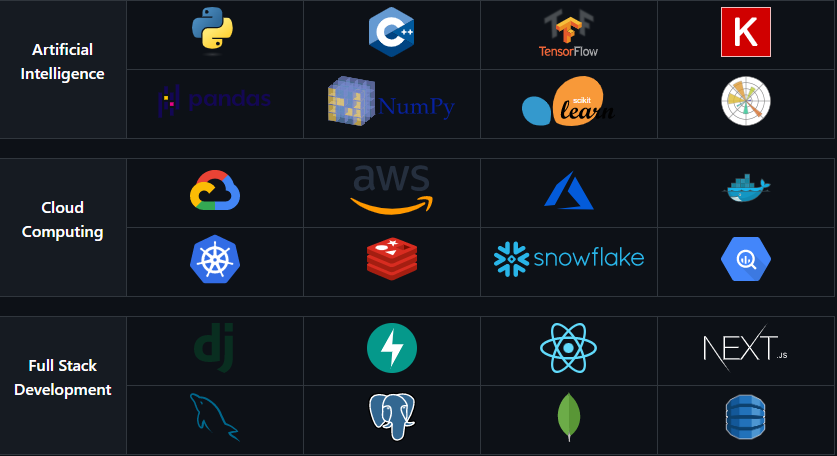
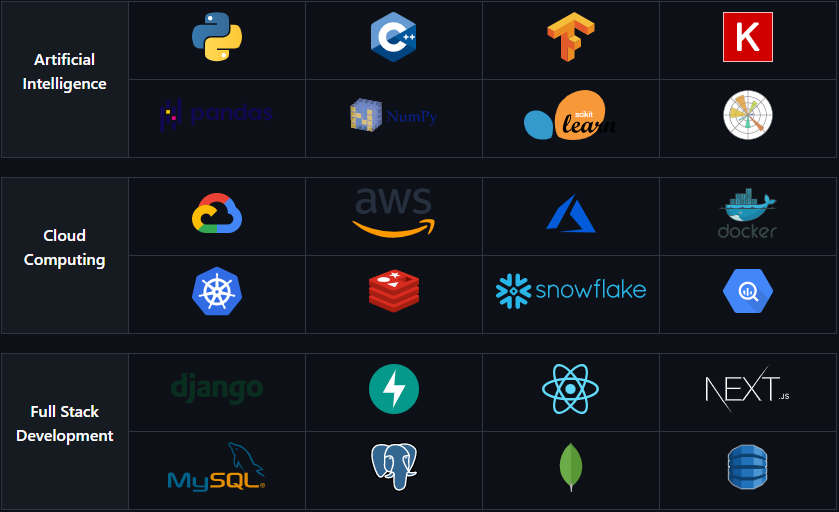
Update SS

diff --git a/README.md b/README.md
@@ -22,36 +22,38 @@
 ## <br>
 
 <h3 align="left">Languages and Tools:</h3>
-<img alt="Skills" src="./assets/tech_table.png">
+<div align='center'>
+    <img alt="Skills" src="./assets/tech_table.png">
+</div>
 <!-- <table align="center">
     <tr>
         <th align='center' width='100px' rowspan="2">
             <p align='center'>Artificial Intelligence</p>
         </th>
-        <td align='center' width='150px'>
-            <img alt="Python" height="50px" src="https://upload.wikimedia.org/wikipedia/commons/c/c3/Python-logo-notext.svg" />
+        <td align='center' width='150px' height='65px'>
+            <img alt="Python" height="50px" src="https://vectorlogo.zone/logos/python/python-icon.svg" />
         </td>
-        <td align='center' width='150px'>
+        <td align='center' width='150px' height='65px'>
             <img alt="C++" height="50px" src="https://upload.wikimedia.org/wikipedia/commons/1/18/ISO_C%2B%2B_Logo.svg" />
         </td>
-        <td align='center' width='150px'>
-            <img alt="TensorFlow" height="50px" src="https://upload.wikimedia.org/wikipedia/commons/1/11/TensorFlowLogo.svg" />
+        <td align='center' width='150px' height='65px'>
+            <img alt="TensorFlow" height="50px" src="https://www.vectorlogo.zone/logos/tensorflow/tensorflow-icon.svg" />
         </td>
-        <td align='center' width='150px'>
+        <td align='center' width='150px' height='65px'>
             <img alt="Keras" height="50px" src="https://upload.wikimedia.org/wikipedia/commons/a/ae/Keras_logo.svg" />
         </td>
     </tr>
     <tr>
-        <td align='center' width='150px'>
+        <td align='center' width='150px' height='65px'>
             <img alt="Pandas" height="50px" src="https://upload.wikimedia.org/wikipedia/commons/e/ed/Pandas_logo.svg" />
         </td>
-        <td align='center' width='150px'>
-            <img alt="Numpy" height="50px" src="https://upload.wikimedia.org/wikipedia/commons/1/1a/NumPy_logo.svg" />
+        <td align='center' width='150px' height='65px'>
+            <img alt="Numpy" height="50px" src="https://www.vectorlogo.zone/logos/numpy/numpy-ar21.svg" />
         </td>
-        <td align='center' width='150px'>
+        <td align='center' width='150px' height='65px'>
             <img alt="Scikit-Learn" height="50px" src="https://upload.wikimedia.org/wikipedia/commons/0/05/Scikit_learn_logo_small.svg" />
         </td>
-        <td align='center' width='150px'>
+        <td align='center' width='150px' height='65px'>
             <img alt="Matplotlib" height="50px" src="https://upload.wikimedia.org/wikipedia/commons/8/84/Matplotlib_icon.svg" />
         </td>
     </tr>
@@ -60,30 +62,30 @@
         <th align='center' width='100px' rowspan='2'>
             <p align='center'>Cloud Computing</p>
         </th>
-        <td align='center' width='150px'>
+        <td align='center' width='150px' height='65px'>
             <img alt="GCP" height="50px" src="https://www.vectorlogo.zone/logos/google_cloud/google_cloud-icon.svg" />
         </td>
-        <td align='center' width='150px'>
+        <td align='center' width='150px' height='65px'>
             <img alt="AWS" height="50px" src="https://upload.wikimedia.org/wikipedia/commons/9/93/Amazon_Web_Services_Logo.svg" />
         </td>
-        <td align='center' width='150px'>
+        <td align='center' width='150px' height='65px'>
             <img alt="Azure" height="50px" src="https://www.vectorlogo.zone/logos/microsoft_azure/microsoft_azure-icon.svg" />
         </td>
-        <td align='center' width='150px'>
-            <img alt="Docker" height="50px" src="https://www.vectorlogo.zone/logos/docker/docker-icon.svg" />
+        <td align='center' width='150px' height='65px'>
+            <img alt="Docker" height="50px" src="https://www.vectorlogo.zone/logos/docker/docker-official.svg" />
         </td>
     </tr>
     <tr>
-        <td align='center' width='150px'>
+        <td align='center' width='150px' height='65px'>
             <img alt="Kubernetes" height="50px" src="https://www.vectorlogo.zone/logos/kubernetes/kubernetes-icon.svg" />
         </td>
-        <td align='center' width='150px'>
+        <td align='center' width='150px' height='65px'>
             <img alt="Redis" height="50px" src="https://www.vectorlogo.zone/logos/redis/redis-icon.svg" />
         </td>
-        <td align='center' width='150px'>
+        <td align='center' width='150px' height='65px'>
             <img alt="Snowflake" height="50px" src="https://upload.wikimedia.org/wikipedia/commons/f/ff/Snowflake_Logo.svg" />
         </td>
-        <td align='center' width='150px'>
+        <td align='center' width='150px' height='65px'>
             <img alt="BigQuery" height="50px" src="https://www.vectorlogo.zone/logos/google_bigquery/google_bigquery-icon.svg" />
         </td>
     </tr>
@@ -92,30 +94,30 @@
         <th align='center' width='100px' rowspan='2'>
             <p align='center'>Full Stack Development</p>
         </th>
-        <td align='center' width='150px'>
-            <img alt="Django" height="50px" src="https://www.vectorlogo.zone/logos/djangoproject/djangoproject-icon.svg" />
+        <td align='center' width='150px' height='65px'>
+            <img alt="Django" height="50px" src="https://www.vectorlogo.zone/logos/djangoproject/djangoproject-ar21.svg" />
         </td>
-        <td align='center' width='150px'>
+        <td align='center' width='150px' height='65px'>
             <img alt="FastAPI" height="50px" src="https://svgarchive.com/wp-content/uploads/fastapi-1.svg" />
         </td>
-        <td align='center' width='150px'>
+        <td align='center' width='150px' height='65px'>
             <img alt="React" height="50px" src="https://upload.wikimedia.org/wikipedia/commons/a/a7/React-icon.svg" />
         </td>
-        <td align='center' width='150px'>
+        <td align='center' width='150px' height='65px'>
             <img alt="NextJS" height="50px" src="https://upload.wikimedia.org/wikipedia/commons/8/8e/Nextjs-logo.svg" class='nextjs' />
         </td>
     </tr>
     <tr>
-        <td align='center' width='150px'>
-            <img alt="MySQL" height="50px" src="https://www.vectorlogo.zone/logos/mysql/mysql-icon.svg" />
+        <td align='center' width='150px' height='65px'>
+            <img alt="MySQL" height="50px" src="https://www.vectorlogo.zone/logos/mysql/mysql-official.svg" />
         </td>
-        <td align='center' width='150px'>
+        <td align='center' width='150px' height='65px'>
             <img alt="PostgreSQL" height="50px" src="https://www.vectorlogo.zone/logos/postgresql/postgresql-icon.svg" />
         </td>
-        <td align='center' width='150px'>
+        <td align='center' width='150px' height='65px'>
             <img alt="MongoDB" height="50px" src="https://www.vectorlogo.zone/logos/mongodb/mongodb-icon.svg" />
         </td>
-        <td align='center' width='150px'>
+        <td align='center' width='150px' height='65px'>
             <img alt="DynamoDB" height="50px" src="https://upload.wikimedia.org/wikipedia/commons/f/fd/DynamoDB.png" />
         </td>
     </tr>
